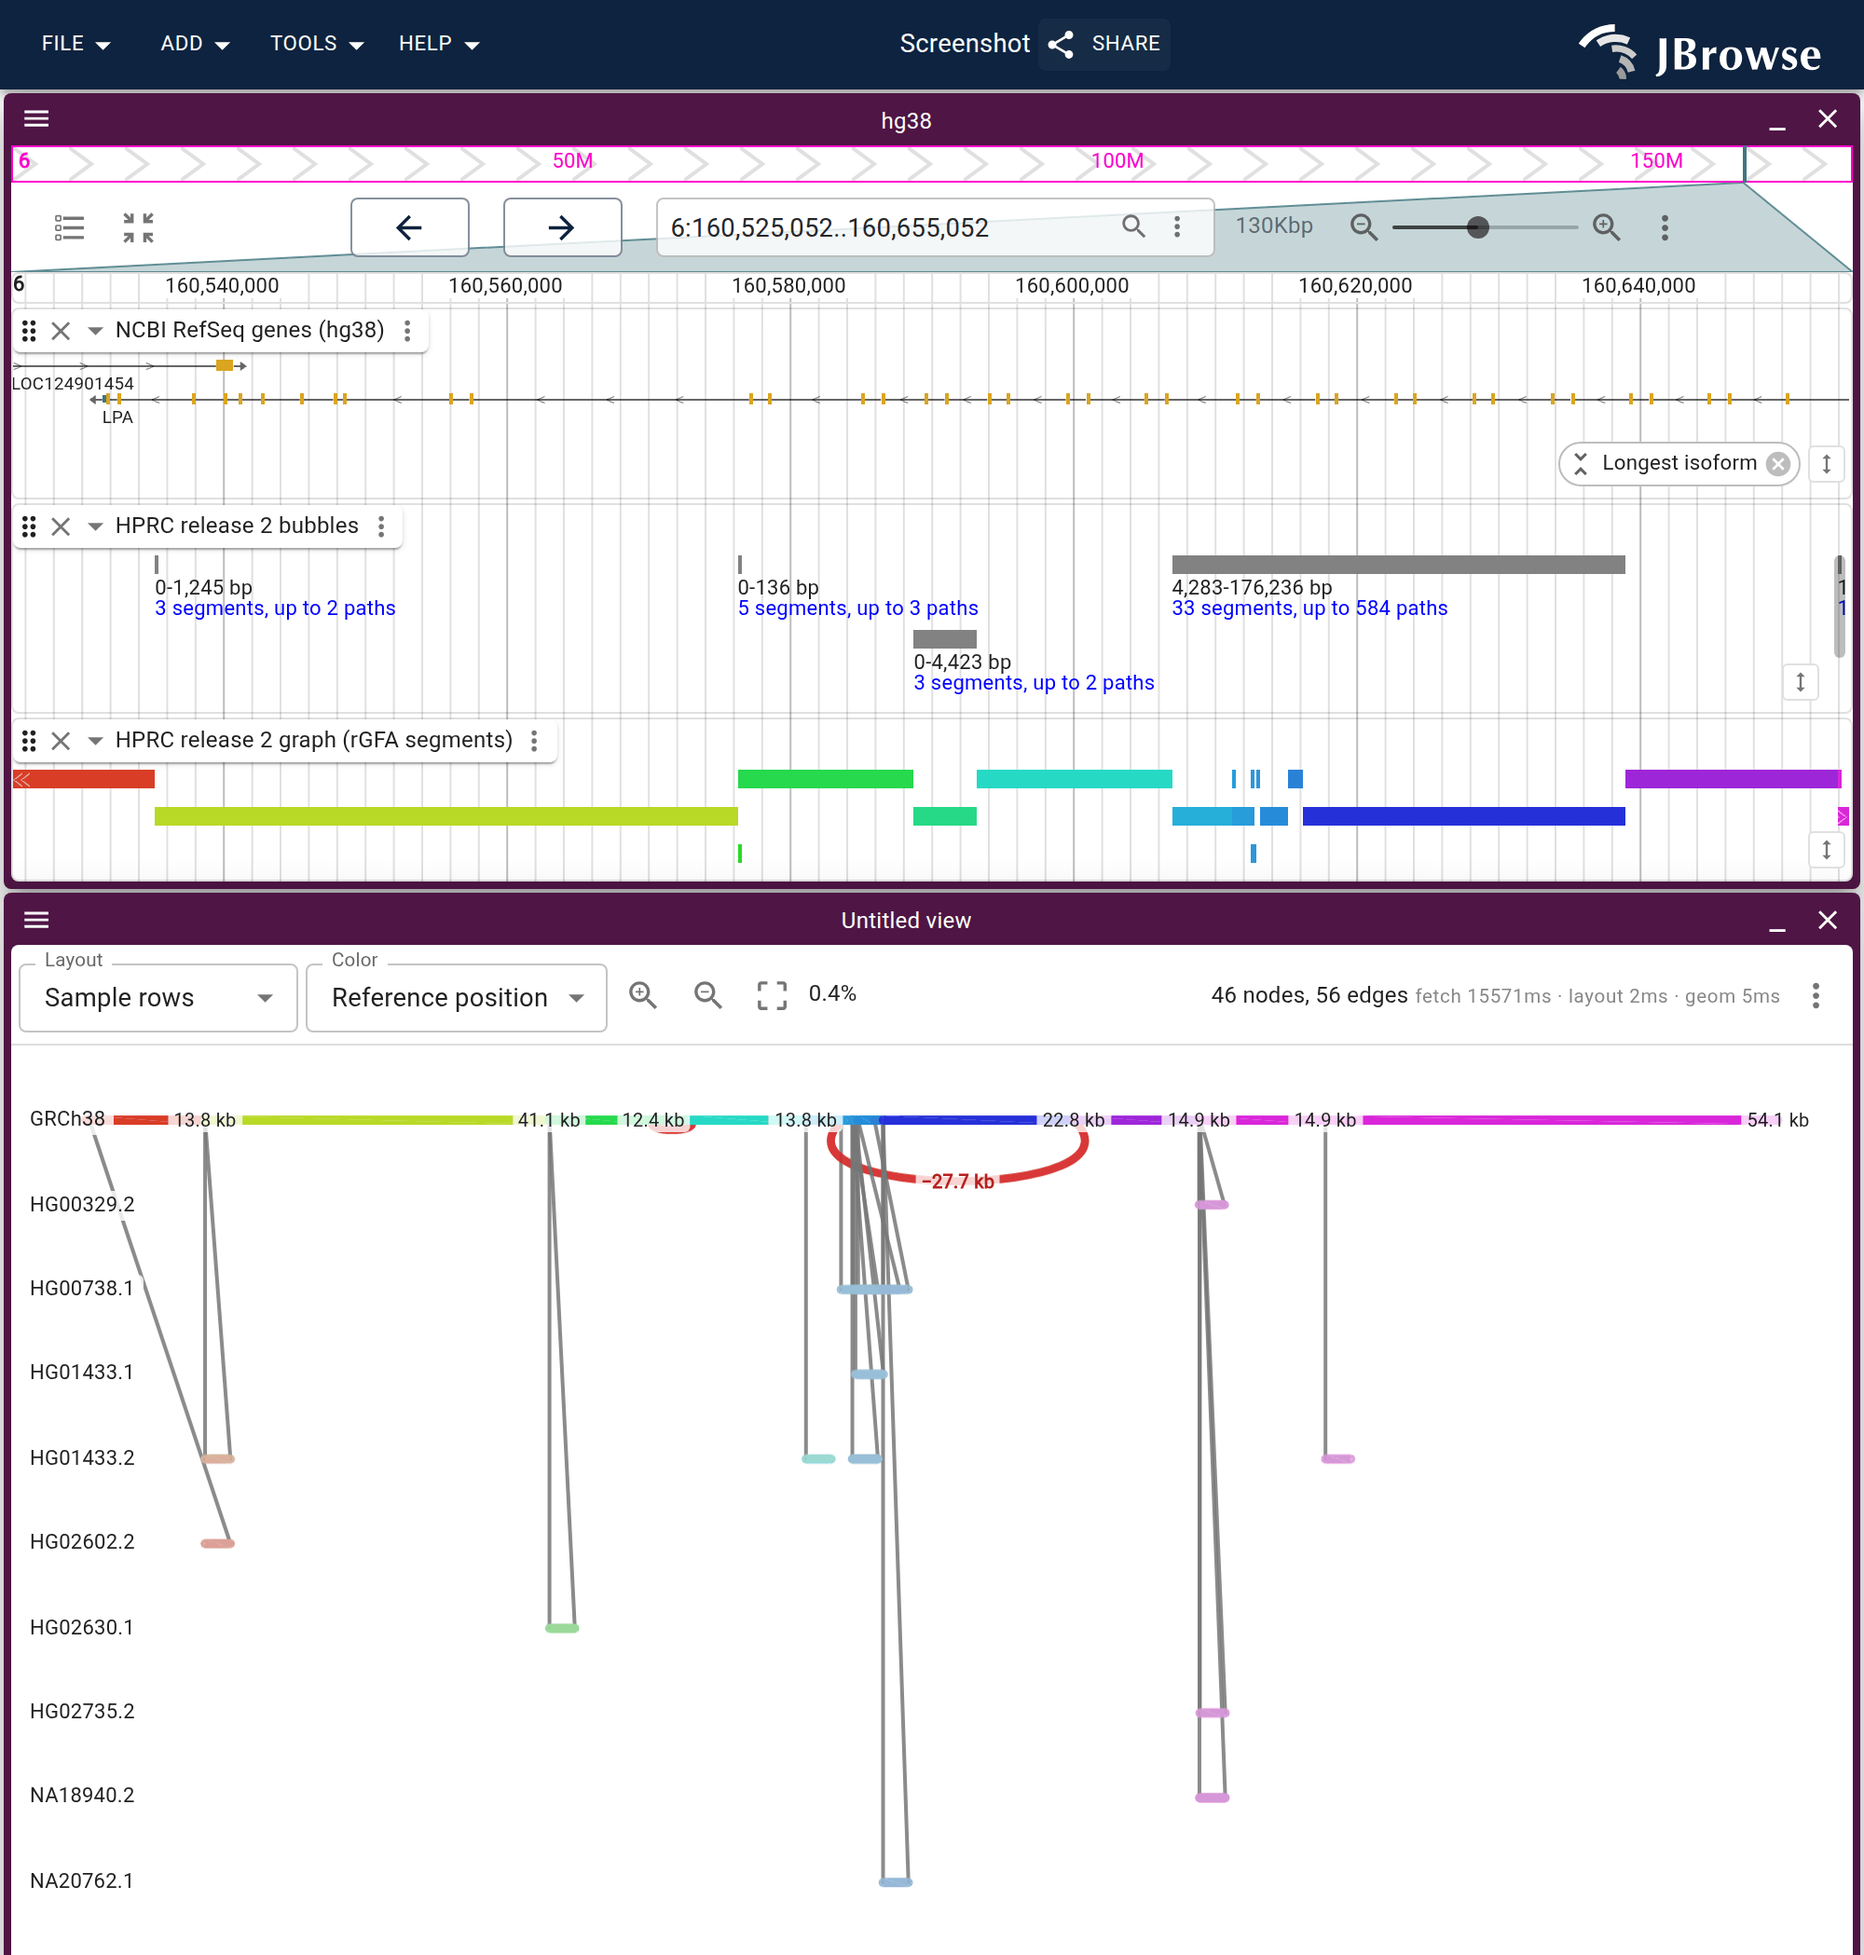
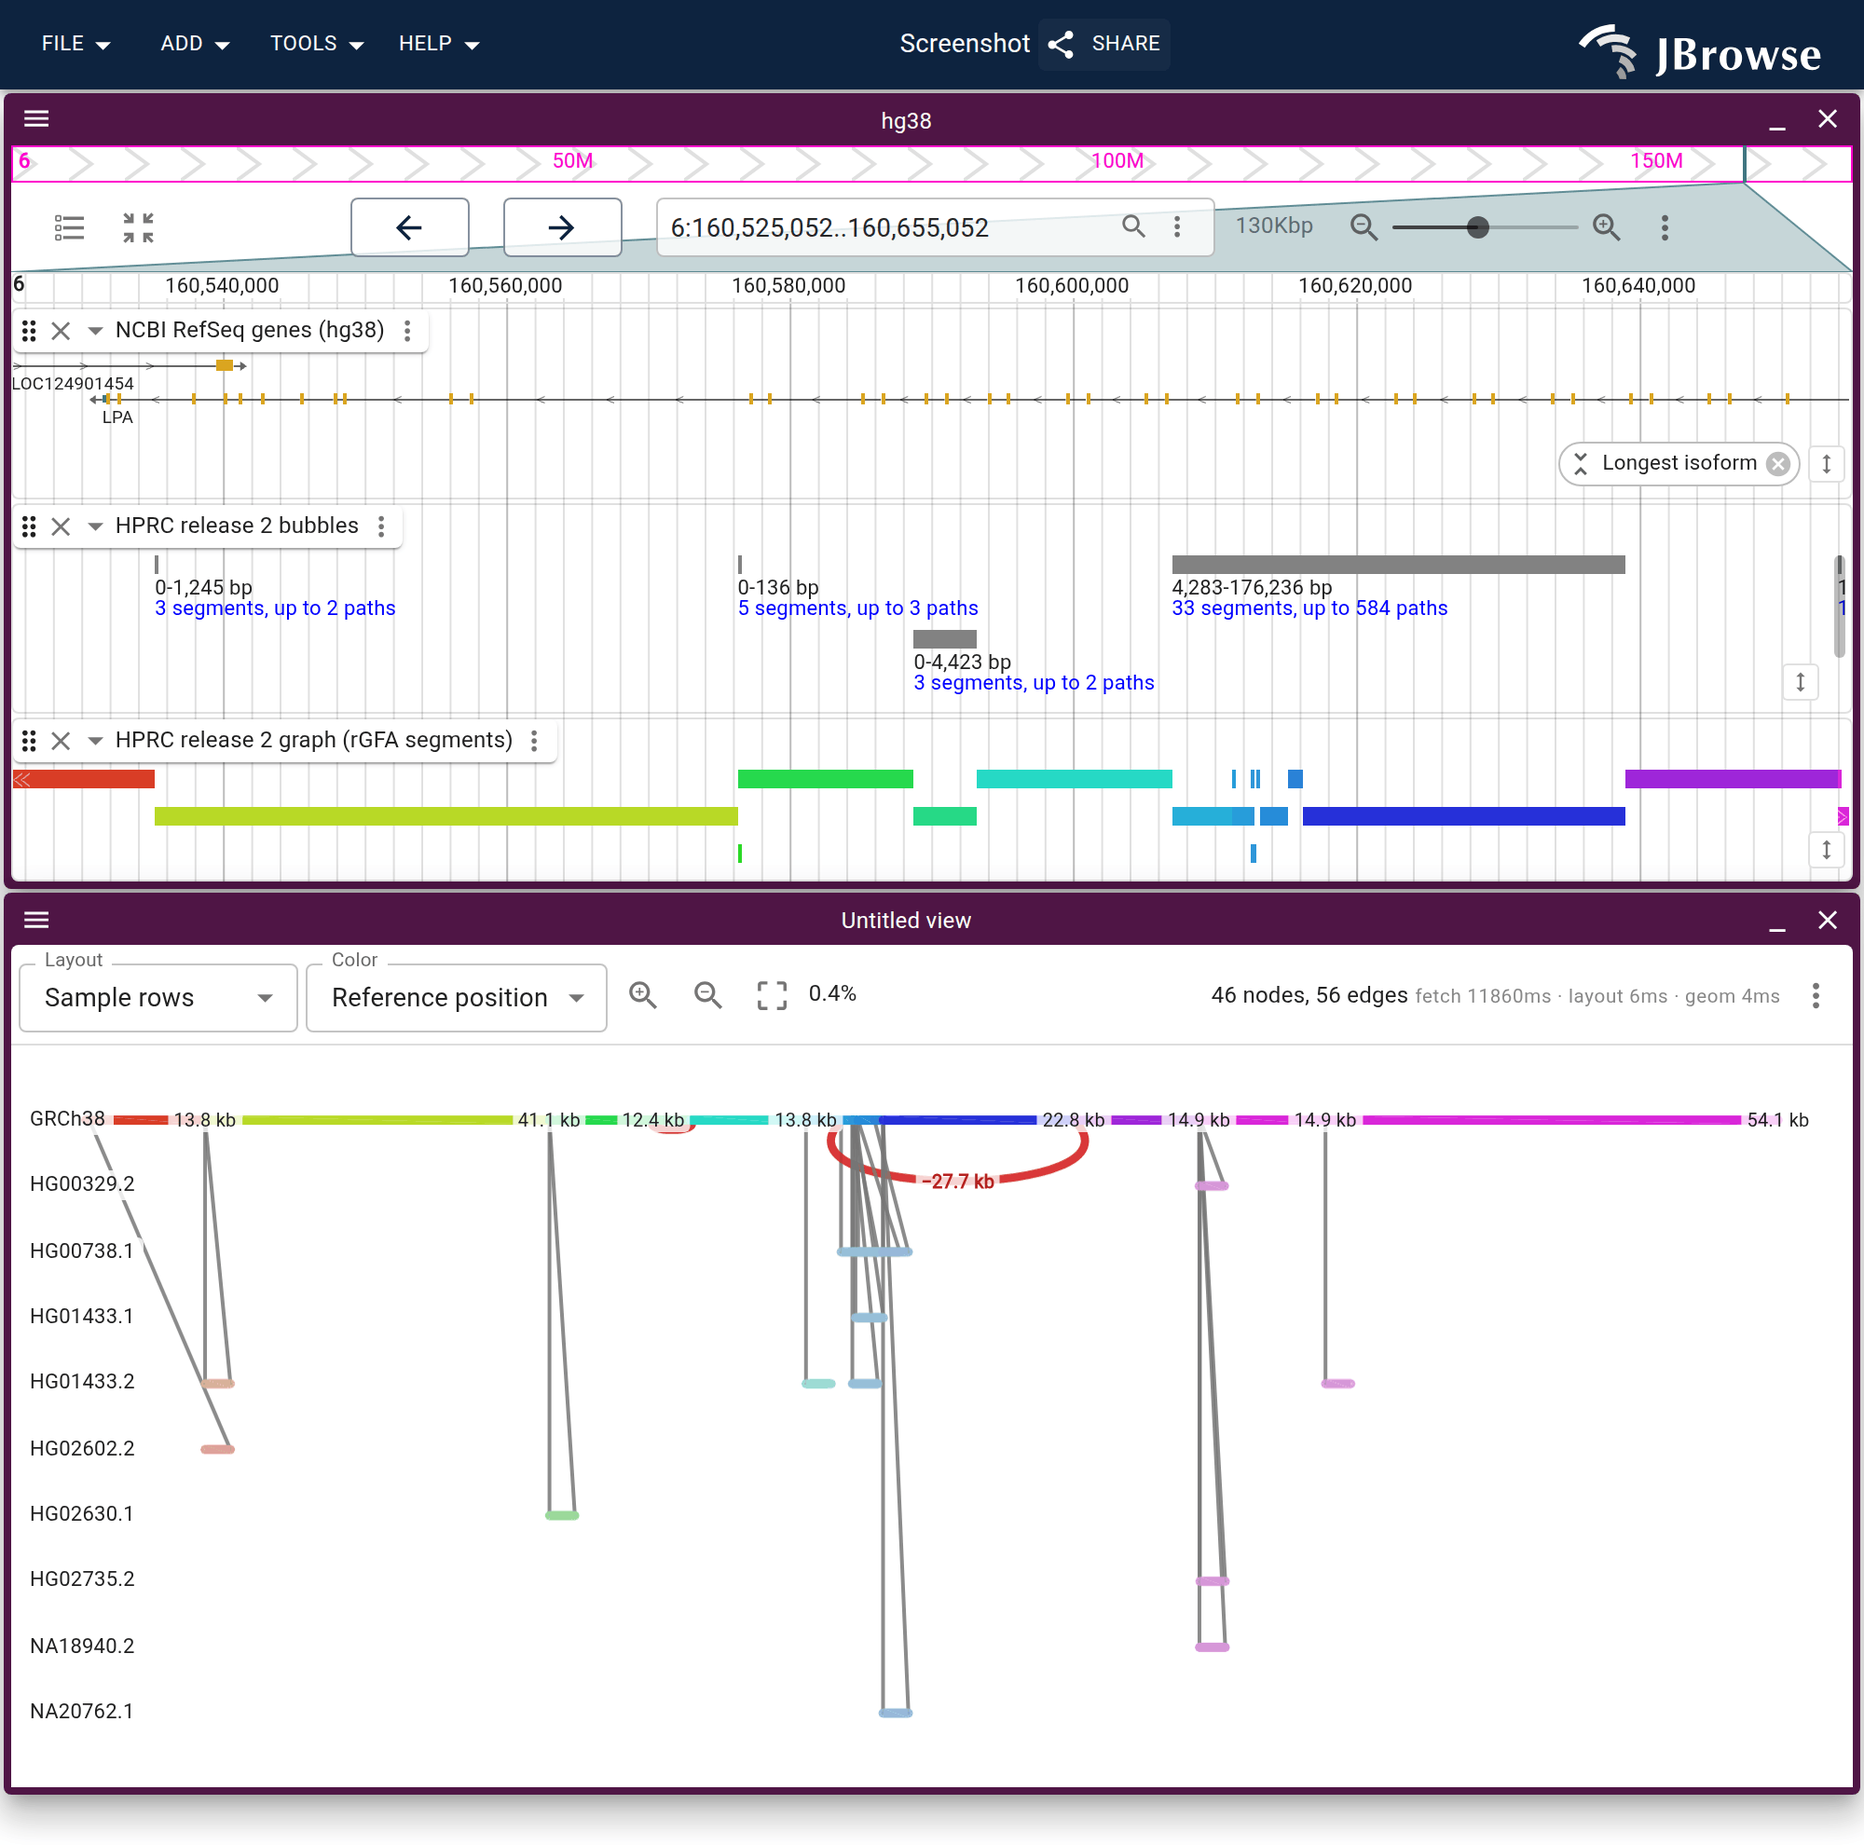
docs(pangenome): pack the graph's rows instead of growing the pane
Review of pangenome/hprc_graph_vs_callset: "the different rank rows are quite
tall, we need compressed visualizations with efficient use of y-axis real estate
... particularly the backbone graph", alongside "hard to see the way that the SV
track relates to the graph". Those turn out to be one bug.

Both of the plugin's row layouts spaced rows at a flat 5% of the window span,
which is a per-row constant with no ceiling on the total, so the drawing's aspect
ratio grew with the row count and the pane grew with it. At MHC class II the
sample-row layout draws 16 haplotypes plus the backbone: 0.8 of the span tall,
past the pane's 600 px cap, and once it clips, zoom-to-fit binds on the vertical
axis -- so the backbone shrinks to two thirds of the width and stops sitting
under the linear view's x axis. That is why the correspondence was hard to read,
and why nine tenths of 600 px was whitespace.

The ceiling moves to the total (0.35 of the span) and the per-row spacing follows
from it. The graph pane goes 600 -> ~400 px, its rows 52 -> 26 px, the backbone
returns to the full width, and the figure loses 176 px of viewport.
hprc_lpa_kiv2 is the same layout and loses 59. Every other graph figure sits
under the ceiling and came back byte-identical, hprc_mhc_anchored included.

Plugin commit 473850d, published as 68ed649ed8e6, all three configs repinned.

Also resolving three review entries whose figures were deleted in earlier passes
[…]

diff --git a/website/scripts/screenshot-review-plan.md b/website/scripts/screenshot-review-plan.md
@@ -191,7 +191,15 @@ cd website && node scripts/generate-screenshots.ts --force --filter pangenome/
 `betabuild` uploads to the public `s3://jbrowse.org/demos/graphgenomeviewer/`,
 moves the unversioned entry point the published figures' live links resolve, and
 invalidates CloudFront — **ask before running it.** Last published
-`90b37e3f1143` (2026-07-27).
+`68ed649ed8e6` (2026-07-30).
+
+Regenerating the whole `pangenome/` set with `--force` after a publish sweeps in
+churn the publish did not cause: the E. coli figures that mount no graph view at
+all (`pav`, `depth`, `maf`, `pggb_synteny`) come back 4-10% different by raw
+`compare -metric AE` and pixel-identical to the eye, which is GPU rasterization
+wiggle. Diff each changed PNG against `HEAD` and revert the ones the change
+cannot explain, or regenerate without `--force` and let the content-stable gate
+decide.
 
 A menu label is a published API for the specs: `hprc_node_menu` failed its regen
 on `click target not found: text "Highlight this node"` the moment that item was
